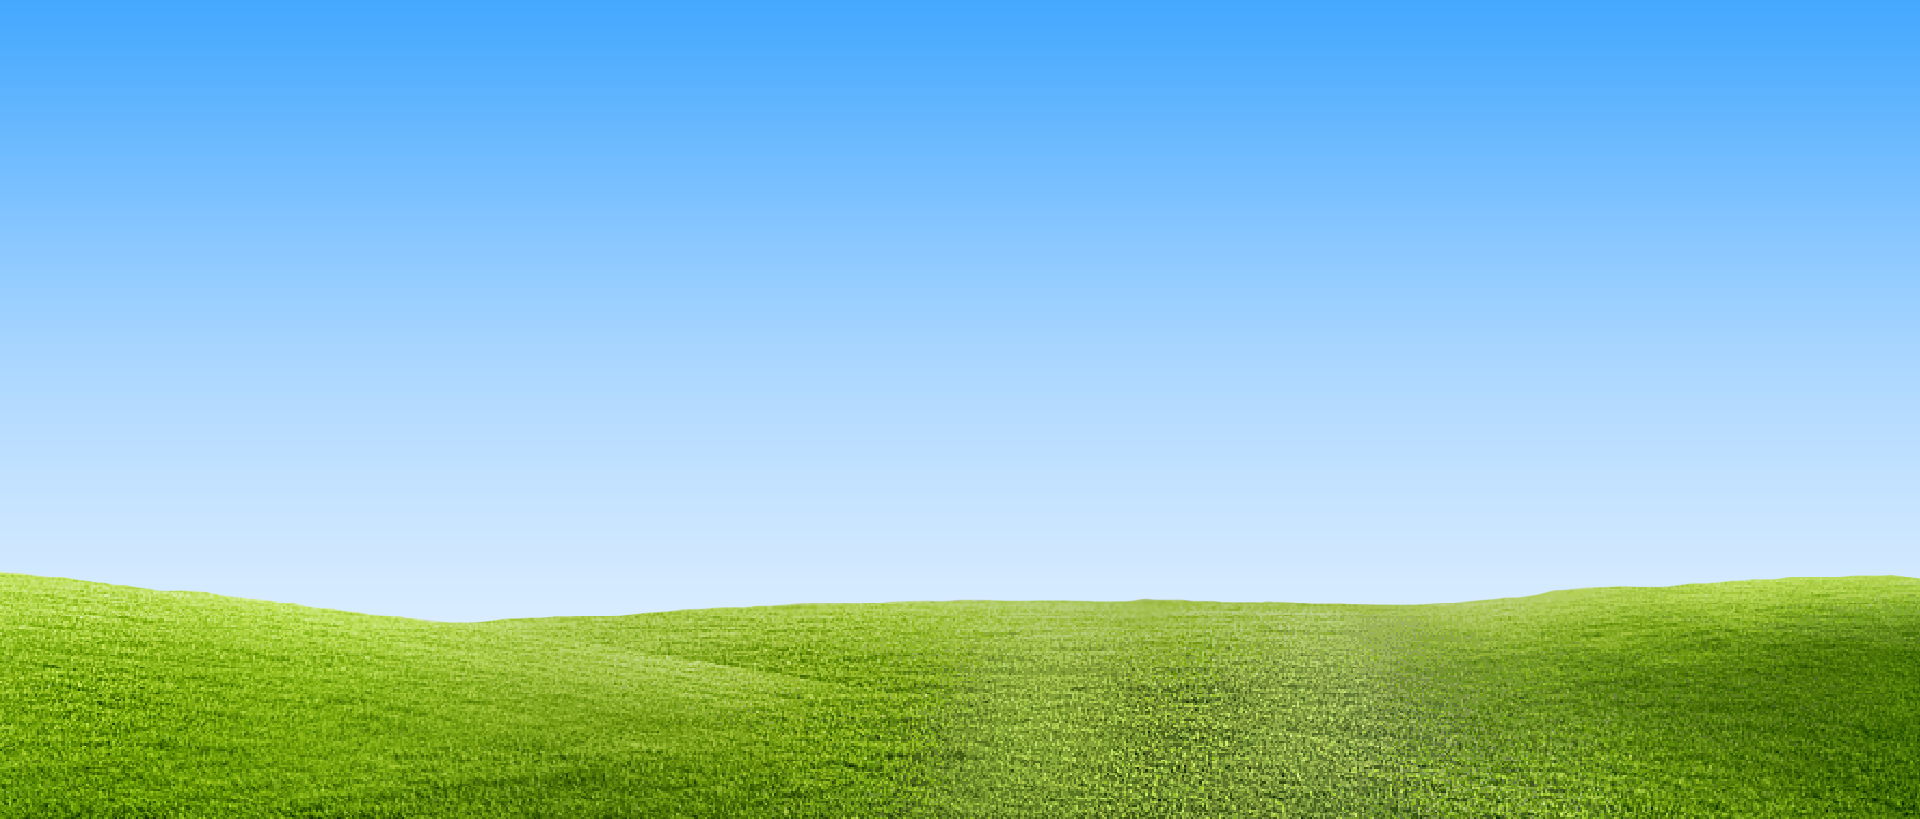
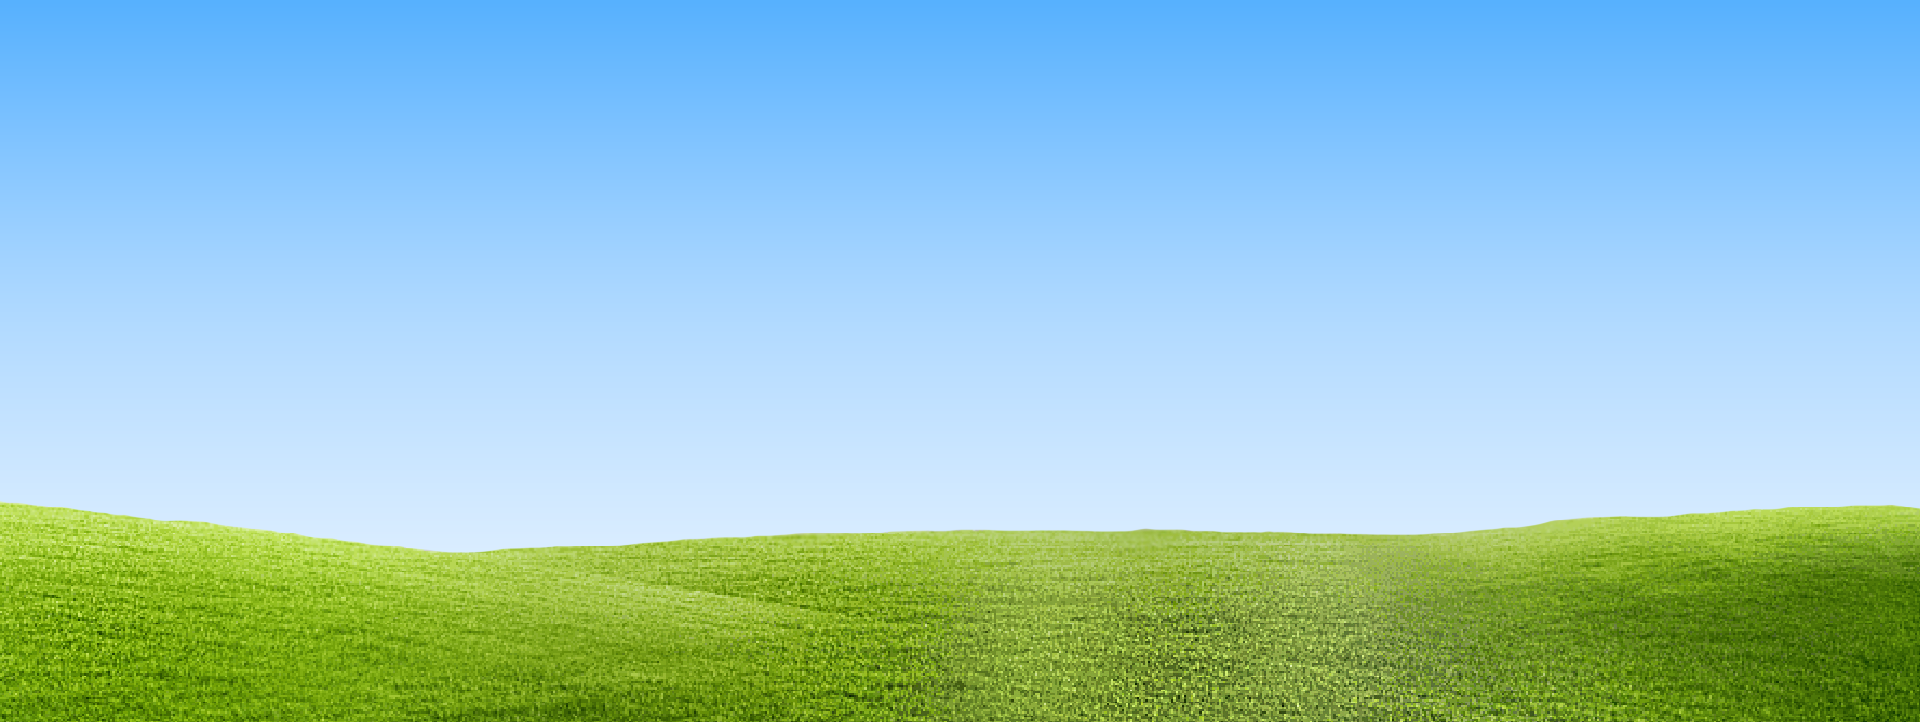
adicionando top

Changed region(s): [[0.0, 0.7008, 1.0, 1.0]]

diff --git a/index.html b/index.html
@@ -5,28 +5,71 @@
     <meta http-equiv="X-UA-Compatible" content="IE=edge">
     <meta name="viewport" content="width=device-width, initial-scale=1.0">
     <title>Marcelo Jardins</title>
+
+    <link rel="preconnect" href="https://fonts.googleapis.com">
+    <link rel="preconnect" href="https://fonts.gstatic.com" crossorigin>
+    <link href="https://fonts.googleapis.com/css2?family=Montserrat:wght@100;300;500;700&display=swap" rel="stylesheet">
     <link rel="stylesheet" href="/css/style.css">
+
+
 </head>
 <body>
+    <div id="top">
+        <div id="top-social">
+            <ul>
+                <li><a href="#"><img src="/assets/facebook-branco.png" alt="logo Facebook" width="25"></a></li>
+                <li><a href="#"><img src="/assets/intagram-branco.png" alt="logo Insragran" width="25"></a></li>
+            </ul>
+        </div>
+        <div id="top-contact">
+            <img src="/assets/telefone-branco.png" alt="telefone" width="25">
+            <p>(51) 99268-7733 - (51) 99577-6309</p>
+        </div>
+        
+    </div>
     <header>
         <div id="logo">
+            <!-- <img src="/assets/boneco.png" alt="boneco jardineiro" width="50"> -->
             <img src="/assets/logo.png" alt="Logo Marcelo Jardins" width="180">
         </div>
         <nav>
             <ul>
                 <li><a href="#">Início</a></li>
                 <li><a href="#">Serviços</a></li>
-                <li><a href="#">Fotos</a></li>
                 <li><a href="#">Clientes</a></li>
+                <li><a href="#">Fotos</a></li>
                 <li><a href="#">Sobre nós</a></li>
                 <li><a href="#">Contato</a></li>
             </ul>
         </nav>
     </header>
-    <section>
-        <div id="background">
-            <img src="/assets/fundo.png" alt="imagem grama">
+    <section class="start">
+        <div id="boneco">
+            
+        </div>
+        <div id="title">
+            <h3>Qualidade garantida</h3>
+            <h1>O seu <b>Jardim</b> cuidado<br>
+                da forma que deve ser</h1>
+            
+        </div>
+    </section>
+    <div id="test">
+        <h1>Conheça os nossos Serviços</h1>
+    </div>
+    <section class="services">
+        <div>
+
+        </div>
+        <div>
+
         </div>
     </section>
 </body>
 </html>
+
+
+<!-- <h2>
+                "O segredo não é correr atrás das borboletas, <br>
+                é cuidar do jardim para que elas venham até você"
+            </h2> -->

diff --git a/css/style.css b/css/style.css
@@ -1,5 +1,50 @@
 * {
     margin: 0;
+    font-family: 'Montserrat';
+}
+#top {
+    background: rgb(1, 53, 1);
+    color: white;
+    display: grid;
+    grid-auto-flow: column;
+    grid-template-columns: 70% auto;
+    align-items: center;
+    text-align: right;
+    padding: 5px;
+}
+
+#top-social {
+    display: grid;
+    flex-direction: column;
+    align-items: center;
+    text-align: center;
+    justify-content: right;
+    
+}
+
+#top-social ul {
+    display: flex;
+    flex-direction: row;
+    margin-top: 2px;
+}
+
+#top-social ul li {
+    List-style-type: none;
+    text-align: center;
+    margin-right: 25px;
+    align-items: center;
+}
+
+#top-contact {
+    display: flex;
+    align-items: center;
+    text-align: center;
+    justify-content: left;
+    letter-spacing: 2px;
+}
+
+#top-contact img {
+    margin-right: 10px;
 }
 
 header {
@@ -12,8 +57,7 @@ header {
 
 header #logo {
     text-align: center;
-    margin-top: 10px;
-    margin-bottom: 5px;
+    margin-top: 5px;
 }
 
 nav {
@@ -28,23 +72,64 @@ nav ul {
 
 nav ul li {
     List-style-type: none;
+    text-align: center;
 }
 
 nav ul li a {
     text-decoration: none;
     color: black;
-    font-size: 20px;
+    font-size: 18px;
     text-transform: uppercase;
+    padding: 5px;
 }
 
 nav ul li a:hover {
     cursor: pointer;
-    color: gray;
+    color: green;
 }
 
-section img {
-    width: 1800px;
-    height: 700px;  
+section.start {
+    /* width: 1730px; */
+    height: 600px;
+    background: url(/assets/grass.jpg);
     background-size: cover;
     background-position: center;
+    display: grid;
+    grid-auto-flow: column;
+    grid-template-columns: 0 auto;
+    align-items: center;
+    text-align: center;
+
 }
+
+#title {
+    justify-content: center;
+    align-items: center;
+    text-align: center;
+}
+
+#title h3 {
+    text-transform: uppercase;
+    color: green;
+    letter-spacing: 15px;
+    font-weight: 400;
+    margin-bottom: 20px;
+    text-shadow: 0.05em 0.05em 0.01em rgb(0, 0, 0);
+}
+
+#title h1 {
+    font-size: 70px;
+}
+
+#title h1 b {
+    color: green;
+    font-size: 80px;
+}
+
+#test {
+    background: green;
+    color: white;
+    padding: 20px 0px 20px 0px;
+    text-align: center;
+}
+
